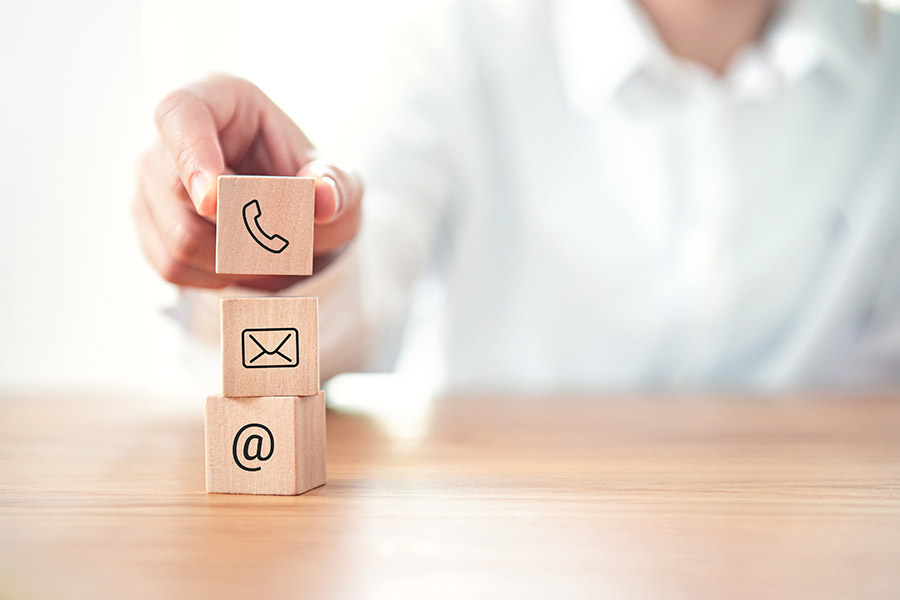
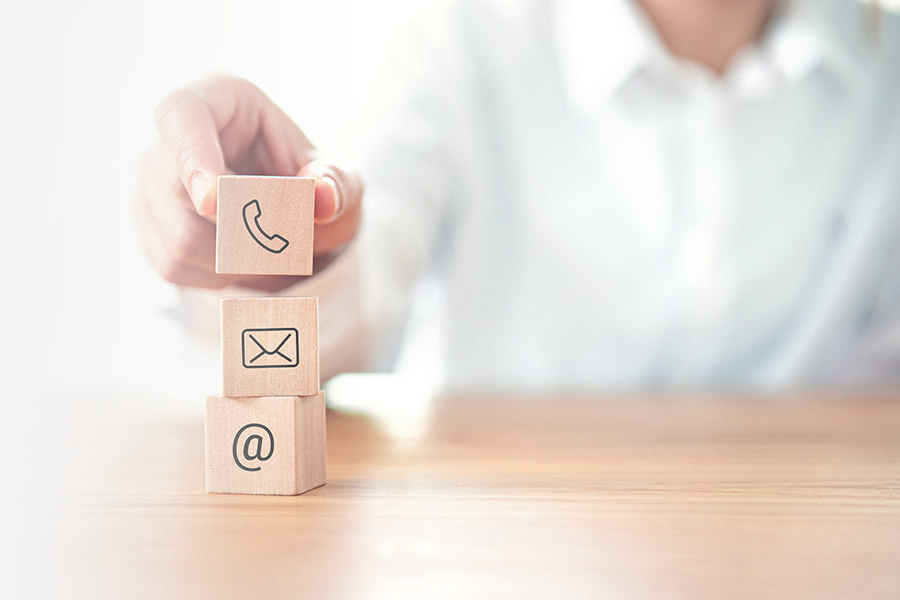
add file for contacts

Changed region(s): [[0.0, 0.12, 0.3422, 1.0], [0.3422, 0.42, 0.3733, 0.45]]

diff --git a/src/partials/hero-contacts.html b/src/partials/hero-contacts.html
@@ -1,5 +1,4 @@
-<section class="page-hero page-hero--contacts" style="background-image:
-linear-gradient(90deg, #F4F5F6 0%, rgba(244, 245, 246, 0.00) 41.15%), url('../img/contacts-page-bg.png');">
+<section class="page-hero page-hero--contacts" style="background-image: url('../img/contacts-page-bg.png');">
   <div class="container page-hero__container">
     <ul class="list-reset page-hero__breadcrumbs breadcrumbs">
       <li class="breadcrumbs__item">

diff --git a/src/contacts.html b/src/contacts.html
@@ -8,9 +8,8 @@
     @include('partials/header-1.html')
     <main>
       @include('partials/hero-contacts.html')
-
-
-      @include('partials/contacts-section.html')
+      @include('partials/contacts-form.html')
+      @include('partials/contacts-info.html')
     </main>
     @include('partials/footer.html')
   </div>

diff --git a/src/scss/main.scss b/src/scss/main.scss
@@ -40,6 +40,7 @@
 @import "./components/news-article";
 @import "./components/post";
 @import "./components/comments";
+@import "./components/contacts";
 
 // подключения компонентов страницы (малые)
 @import "./components/nav";

diff --git a/src/scss/components/_page-hero.scss b/src/scss/components/_page-hero.scss
@@ -106,8 +106,7 @@
   }
 
   &--contacts {
-    background-position: right 0 top 48px;
-    background-color: var(--light-color);
+    background-position: top right;
   }
 
   &__about {
